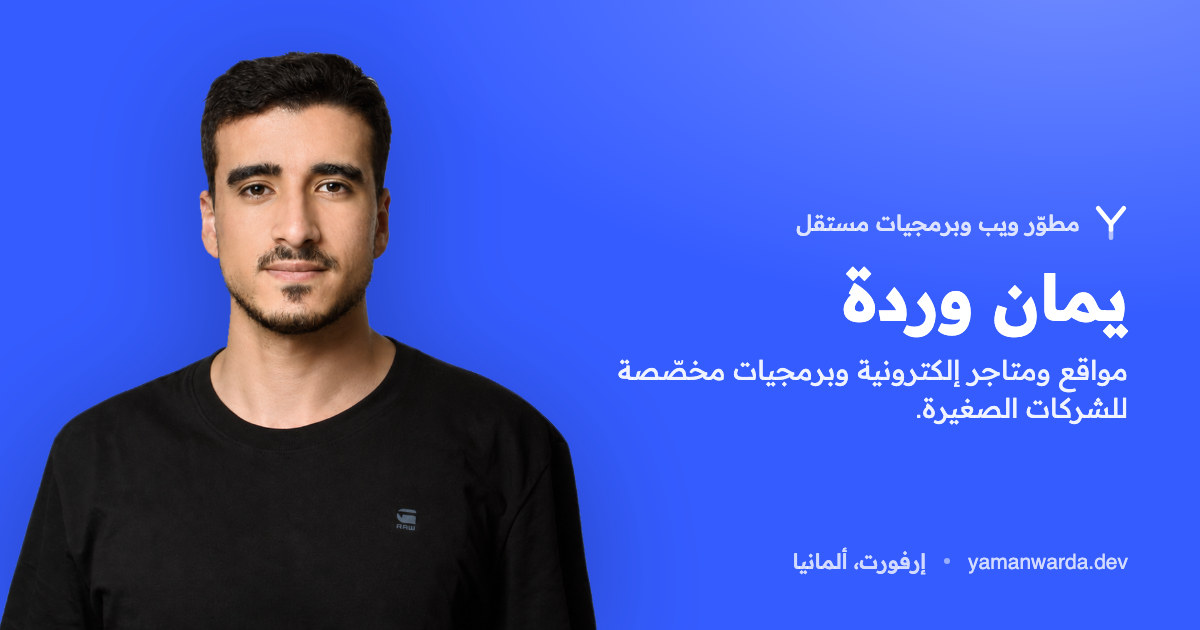
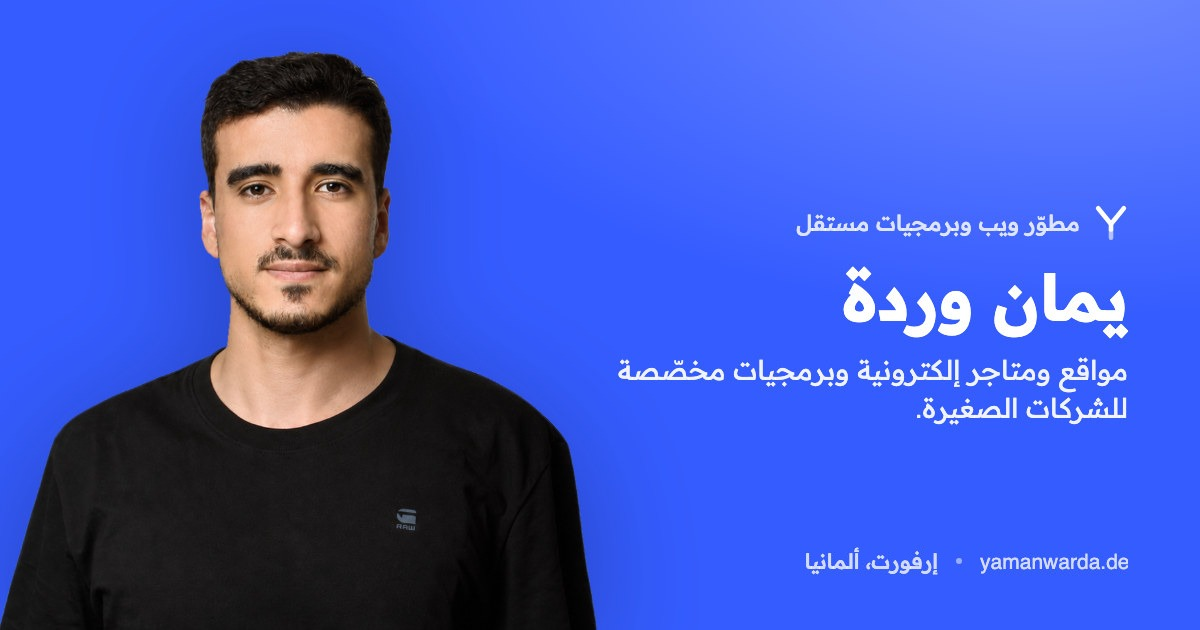
Social cards say yamanwarda.de, not the retired .dev; bump card version so shared links refresh

diff --git a/src/frontend/lib/url.ts b/src/frontend/lib/url.ts
@@ -23,7 +23,7 @@ export const pageUrl = (language: Language, path: string) => absolute(publicPath
  *
  * The bare path still resolves, so links shared before this stay intact.
  */
-export const OG_CARD_VERSION = '2026-09-10'
+export const OG_CARD_VERSION = '2026-09-24'
 
 /** Social preview card for a language. 1200×630, generated into `public/og`. */
 export const socialCard = (language: Language) => `/og/${language}.jpg?v=${OG_CARD_VERSION}`
